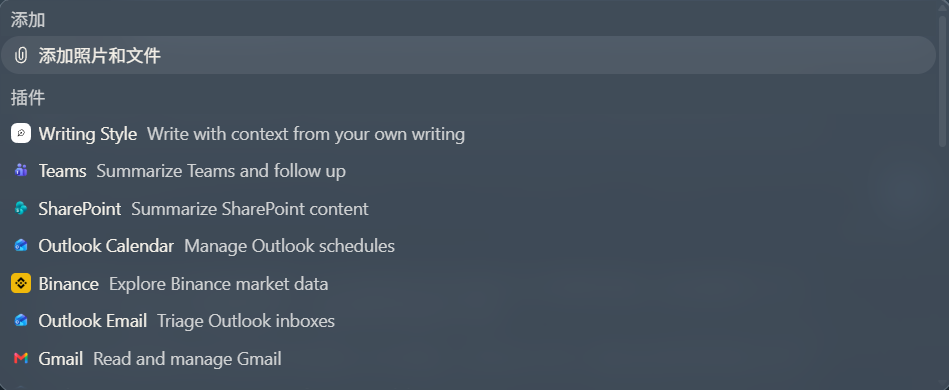
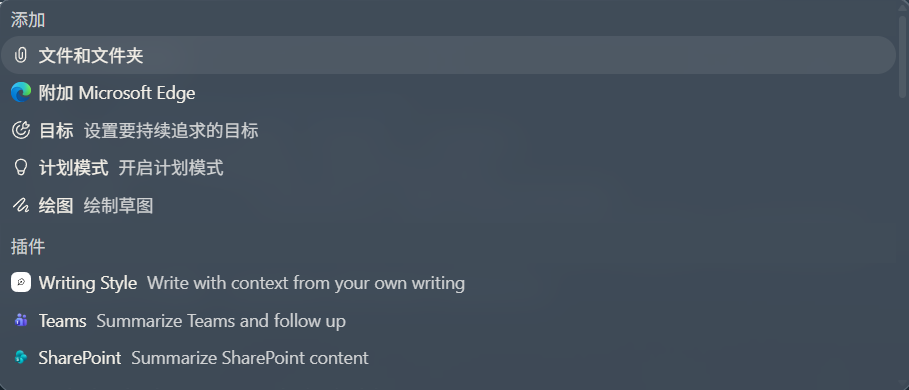
release: publish native surface adaptation as v0.18.0

diff --git a/runtime/wukong-codex-theme-background-v13.css b/runtime/wukong-codex-theme-background-v13.css
@@ -1,4 +1,4 @@
-/* Native paint boundary, audited against desktop 26.930.3748.0.
+/* Native paint boundary, audited against desktop 26.930.3930.0.
  * Native fonts, radii and layout are retained. Navigation uses a translucent
  * reading surface with foreground colours matched to the native theme.
  * Only the existing landing wordmark/quote and inert background own geometry.

diff --git a/docs/VALIDATION.md b/docs/VALIDATION.md
@@ -1,6 +1,6 @@
 # 当前适配验证
 
-日期：2026-10-03。原生客户端：Windows Codex 26.930.3748.0；运行时：v108-native-surface-adapter。本轮源码尚未发行，最新正式版为 v0.17.3；历史结论从 Git 历史与对应 Release 查阅。
+日期：2026-10-04。发行版本：v0.18.0。原生客户端：Windows Codex 26.930.3930.0；运行时：v108-native-surface-adapter。历史结论从 Git 历史与对应 Release 查阅。
 
 ## 原生来源与设计核对
 
@@ -9,6 +9,10 @@
 原生尺寸和圆角不再冻结为旧版数值；测试检查语义接口、实际归属、原生几何与功能。不存在原生 data 标记的装饰叶，仍保留限定范围的组件或样式回退，不承诺未来组件彻底重写后无需维护。
 
 ## 实机检查
+
+2026-10-04 重新核对当前安装包，活动共用 CSS 与此前审计版本完全一致，全部现役原生语义接口存在；22 项原生来源及适配定向检查通过。深浅色重新检查设置、普通对话、添加菜单、dots、Customize 和权限表。设置及同风景队列页面往返保持 renderCount=1，未新增背景解码；两种模式各检查设置 307 个、普通对话 1,266 个节点，Customize 分别检查 342／1,999 个节点，所测 rect、圆角、定位、内距、字号和行高无差异。节点数量受原生异步加载影响。权限表各检查 34 个节点、翻页到 480px、下拉打开及关闭，权限值未变化。
+
+权限表使用原生平滑滚动。旧私有检查等待 150ms 曾过早读取到 0；继续观察后正常达到 480px，已改为等待实际滚动完成，未将此写成产品缺陷。六张预览均在当前版本重新截取。以下既有适配结论已在本轮相关页面复核；普通对话 1,618 节点的详细检查属于 2026-10-03 记录。
 
 - 最终源码已通过注入器应用到当前客户端。首次窗口隐藏时按设计延期；随后激活窗口完成加载，深浅模式检查均 document.hidden=false、backgroundReady=true。
 - 使用原生外观设置切换 dark/light，检查设置、活动对话、添加菜单、dots 与 Customize；结束后恢复原深色模式和原对话。
@@ -19,18 +23,18 @@
 - 浏览器智能体权限表的原生组件 CSS 使用单元格绘制，已用权限列无障碍 ID 限定局部材质。实机深浅色各检查 34 个内部节点，原生 rect、圆角、定位、网格、内距、边框宽度和字体一致；翻页产生 480px 横向滚动，回退及下拉菜单正常，所有权限值保持原值。表格不新增模糊层，固定单元格采用实色，防止移动文字透出。
 - 双模式设置、活动页面与 Customize 的布局对照未发现 rect、圆角、定位、内距、字号、行高差异。最后使用统一语义适配器核对当前普通对话 1,618 个节点，有一处居中容器的计算 margin 表示不同，但 rect 完全一致；不声明所有计算样式完全相同。
 
-预览来自当前客户端空白新聊天页及局部截图，没有聊天正文；新聊天页侧栏名称已临时脱敏，截图后恢复。具体来源见 previews/README.md。实机导航和 DOM 检查不等同于用户视觉验收，本轮仍待用户验收。
+预览来自当前客户端空白新聊天页及局部截图，没有聊天正文；新聊天页侧栏名称已临时脱敏，截图后恢复。具体来源见 previews/README.md。实机导航和 DOM 检查不等同于用户视觉验收。本轮按用户“检查是否有其他问题后同步”的明确发布授权继续发行。
 
 ## 自动检查与打包
 
-从精确暂存内容导出独立源码，排除未跟踪宠物、任务栏材料及诊断。依赖通过本机 node_modules 复用，没有重新安装。最终 npm run check：原生定义验证通过，154 项回归全部通过，0 失败、0 跳过，约 54 秒。检查后只补写验证数量与仓库同步状态，运行代码和测试输入保持一致。
+从精确暂存内容导出独立源码，排除未跟踪宠物、任务栏材料及诊断。依赖通过本机 node_modules 复用，没有重新安装。最终 npm run check：原生定义验证通过，154 项回归全部通过，0 失败、0 跳过，约 55.7 秒。检查后只补写验证数量与仓库同步状态，运行代码和测试输入保持一致。
 
 定向覆盖包括隐藏／透明保留页、portal 可见性、工具类与尺寸变化、原生表面首帧、设置背景连续性、dots 渐变、菜单行状态与禁用状态、自定义材质、旧 schemaVersion 3 导出、生命周期与还原。映射单独更新的浏览器检查确认：无需改变声明 revision，新的依赖映射能移动壁纸宿主，并带入新 renderer 指纹。
 
-Studio 的完整窗口预览、图片输入、导出与截图检查通过；独立源码的 Vite 缓存写入独立目录，最终运行没有共享依赖缓存错误。候选下载包 37 个文件，ZIP 解压后逐文件 SHA-256 一致；退役纹理、开发目录及本机材料不进入运行包。候选包仅用于本轮验证，没有上传新 Release。
+Studio 的完整窗口预览、图片输入、导出与截图检查通过；独立源码的 Vite 缓存写入独立目录，最终运行没有共享依赖缓存错误。候选下载包 37 个文件，ZIP 解压后逐文件 SHA-256 一致；退役纹理、开发目录及本机材料不进入运行包。正式下载包随 v0.18.0 上传，上传后重新下载核对 SHA-256。
 
 ## 未执行与边界
 
-本轮没有主动重启官方客户端，未做完整冷启动或完整卸载流程；恢复边界由回归检查覆盖。本轮未重新采集流式文字重载样本，不能将其写成已修复，也不能断定是原生 UI bug。未逐页视觉检查全部设置子页、目录内容、弹窗及每种流式状态。
+本轮使用正式 ZIP 解压出的注入器实际执行恢复原生，verified=true；随后用同一解压包重新注入。隐藏窗口首次延期，激活后实读 document.hidden=false、backgroundReady=true、v108-native-surface-adapter。没有主动重启官方客户端，未做完整冷启动或完整卸载流程。本轮未重新采集流式文字重载样本，不能将其写成已修复，也不能断定是原生 UI bug。未逐页视觉检查全部设置子页、目录内容、弹窗及每种流式状态。
 
-受跟踪的旧方案、旧测试与旧文案已清理，仍有效保护已迁移。自动审批阻止永久删除后，按用户要求把 1,748 个宠物与旧诊断文件，以及 Archives 内 155 个存档文件集中到同一待手动删除目录；迁移前后哈希一致。候选运行包的构建与解压验证结果仍有效，文件现已退出 Archives。最终删除由用户执行，状态见 CLEANUP.md。当前私有诊断和最终独立验证输入保留本机，供验收复查。
+受跟踪的旧方案、旧测试与旧文案已清理，仍有效保护已迁移。自动审批阻止永久删除后，按用户要求把 1,748 个宠物与旧诊断文件，以及 Archives 内 155 个存档文件集中到同一待手动删除目录；迁移前后哈希一致。候选运行包的构建与解压验证结果仍有效，文件现已退出 Archives。最终删除由用户执行，状态见 CLEANUP.md。当前私有诊断保留本机用于复查；已无用途的独立导出与解压副本按长任务清理规则处理，正式 ZIP 与校验文件保留。

diff --git a/docs/CURRENT_GOAL.md b/docs/CURRENT_GOAL.md
@@ -1,13 +1,13 @@
 # 当前目标与发行状态
 
-更新：2026-10-03。最新正式发行版为 [v0.17.3](https://github.com/Udkam/wukong-codex-theme/releases/tag/v0.17.3)，对应发行说明见 [RELEASE_0.17.3.md](RELEASE_0.17.3.md)。
+更新：2026-10-04。当前版本为 [v0.18.0](https://github.com/Udkam/wukong-codex-theme/releases/tag/v0.18.0)，发行说明见 [RELEASE_0.18.0.md](RELEASE_0.18.0.md)。本轮用户已明确要求检查后同步发行。
 
-本轮为 **v108 适配重构与仓库清理，尚未发布新版本**。依据 Windows Codex 26.930.3748.0 的活动原生 CSS/JS，对比全部主题替换内容，在保留背景队列、切换快捷键、跨页复用、玻璃材质、深浅模式、首页装饰和自定义主题功能的前提下，减少对尺寸、工具类及组件层级的依赖。
+运行时 v108-native-surface-adapter 保留背景队列、切换快捷键、跨页复用、玻璃材质、深浅模式、首页装饰和自定义主题功能。对照 Windows Codex 26.930.3930.0 的活动 CSS/JS，按原生语义标记及实际绘制归属维护适配，减少尺寸、工具类和组件层级依赖。
 
-语义选择器与绘制归属集中到 `runtime/native-ui-contract.mjs`；颜色、模糊和阅读衬底从主题 `materials` 配置生成。旧 schemaVersion 3 主题继续兼容，七项退役纸张与侧栏纹理不再参与解码。完整范围和兼容边界见 [原生 UI 与主题替换接口](native-surface-adaptation.md)。
+语义映射集中于 runtime/native-ui-contract.mjs，材质和阅读颜色从主题 materials 配置生成。旧 schemaVersion 3 导出继续兼容；退役纸张和侧栏纹理不再加载。完整范围见 [原生表面与材质接口](native-surface-adaptation.md)。
 
-旧注入方案、历史截图专测、退役素材和重复文档已从当前源码移除，有效保护迁移到现役行为测试。Git 历史、既有标签和已发布版本保留。宠物、旧诊断及 Archives 存档已集中到仓库外的待手动删除目录，见 [清理记录](CLEANUP.md)。
+检查记录区分实机、自动回归、包校验与未执行范围，见 [验证记录](VALIDATION.md)。README、六张实机预览、版本和发行说明随运行包同步；源码与已发布包均使用本轮适配内容。
 
-本轮已注入本机，独立源码 154 项回归及 Studio 检查通过，候选包解压哈希一致。当前等待用户对重构后界面验收；实际页面检查与未执行项目见 [验证记录](VALIDATION.md)。按已授权范围同步源码仓库，正式发行仍遵循固定流程。
+旧方案、专用旧测试与重复文案已清理，有效保护迁移；Git 历史和既有版本保留。宠物、旧诊断及 Archives 存档的手动删除范围见 [清理记录](CLEANUP.md)。
 
-用户入口仍为 `start.cmd`。后续更新遵循 [固定更新与发布流程](DEVELOPMENT.md)。
+用户入口为 start.cmd。后续更新遵循 [固定更新与发布流程](DEVELOPMENT.md)。

diff --git a/README.md b/README.md
@@ -2,9 +2,9 @@
 
 为 Windows ChatGPT/Codex 桌面客户端提供悟空背景与玻璃材质，支持深浅色主题。保留原生交互，按区域替换材质；10 张战斗图、3 张风景图，对话默认雪山。
 
-## 当前源码：原生表面适配重构
+## v0.18.0：原生表面适配重构
 
-**v108（2026-10-03，尚未发布）** 对照 Windows Codex **26.930.3748.0** 的原生 UI，集中维护容器识别和材质配置。最新正式下载仍为 **v0.17.3**，不包含本轮未发布修改。
+**v0.18.0（2026-10-04，运行时 v108）** 对照 Windows Codex **26.930.3930.0** 的原生 UI，集中维护容器识别和材质配置。本版运行包包含本轮适配与修复。
 
 - **容器随原生变化：** 优先按 `data-*` 所属关系识别壁纸、侧栏、输入区、进度区和摘要面板，减少对固定尺寸、工具类组合及文案的依赖。
 - **主题功能继续保留：** 背景队列、自动场景切换、锁定、前后切换、题字开关、深浅玻璃和设置往返复用均保留。
@@ -38,7 +38,7 @@
 
 需要已安装的官方 Windows 桌面客户端，无需另外安装 Node.js、Python 或 npm。
 
-1. 下载 [v0.17.3 Windows 运行包](https://github.com/Udkam/wukong-codex-theme/releases/download/v0.17.3/Wukong-Codex-Theme-0.17.3-Windows.zip)。请选择此运行包，GitHub 自动生成的 **Source code** 是开发源码。
+1. 下载 [v0.18.0 Windows 运行包](https://github.com/Udkam/wukong-codex-theme/releases/download/v0.18.0/Wukong-Codex-Theme-0.18.0-Windows.zip)。请选择此运行包，GitHub 自动生成的 **Source code** 是开发源码。
 2. 完整解压到固定文件夹。首次启动前，完全退出 ChatGPT/Codex，包括系统托盘实例。
 3. 双击 **start.cmd**。
 
@@ -53,7 +53,7 @@ Wukong-Codex-Theme/
 
 请保留整个文件夹，不要只复制 start.cmd，也不要直接在压缩包内运行。可为 start.cmd 创建桌面快捷方式。
 
-当前正式版本为 **v0.17.3**。完整操作说明见 [快速开始](docs/QUICK_START.txt)。
+当前正式版本为 **v0.18.0**。完整操作说明见 [快速开始](docs/QUICK_START.txt)。
 
 ## 常用操作
 
@@ -85,4 +85,4 @@ Wukong-Codex-Theme/
 - [验证记录](docs/VALIDATION.md)
 - [资源来源](docs/ASSET_SOURCES.md)
 
-仓库当前分支仅保留主题。宠物制作资料、旧诊断和 Archives 存档已按用户要求移出原位置，集中到一个待手动删除目录；自动审批阻止永久删除，最终由用户整目录删除。详情见 [清理记录](docs/CLEANUP.md)。
+仓库当前分支仅保留主题。宠物制作资料、旧诊断和 Archives 存档已退出当前源码和运行包；本轮复查原归档目录与此前待手动删除目录均已不存在。历史迁移与本机清理记录见 [清理记录](docs/CLEANUP.md)。

diff --git a/docs/RELEASE_0.18.0.md b/docs/RELEASE_0.18.0.md
@@ -1,0 +1,26 @@
+# Wukong Codex Theme v0.18.0
+
+2026-10-04。原生 UI 适配重构，运行时 v108-native-surface-adapter；对照 Windows Codex 26.930.3930.0。
+
+## 本版内容
+
+- 将原生容器识别、可见性和绘制归属集中到 native-ui-contract.mjs，优先使用语义标记；保留原生布局、圆角、文字排版和交互，减少固定尺寸及工具类组合依赖。
+- 保留背景队列、场景自动切换、锁定、快捷键、首页题字、深浅玻璃、设置往返复用与还原功能。普通对话与 dots 使用风景队列，新聊天使用战斗队列。
+- 深色阅读区提供更稳定的文字、次要说明和链接颜色；主题 JSON 新增可选 materials.dark/light 材质配置，旧 schemaVersion 3 主题继续兼容。
+- 添加面板的分组标题与滚动内容统一材质，改善说明文字对比度，保留选中、禁用、键盘和滚动操作。
+- 清除 dots 输入控件后方的独立装饰渐变，避免底部黑带；保留原生输入控件。
+- 补齐浏览器智能体权限表的深浅色材质，固定列采用不透明底色；保留圆角、横向平滑翻页和权限下拉。
+- host 同时计算主模块和原生适配模块的指纹，单独更新映射也能重新应用到客户端。
+- 清理失效注入方案、旧纹理、历史截图专测和重复文档，迁移有效回归保护；Git 历史、标签与既有发行版保留。
+
+## 检查与边界
+
+新客户端的共用原生样式与前一审计版本一致，全部现役语义接口存在。深浅色实机检查、独立源码回归、Studio 检查及下载包解压哈希验证的实际范围见 [验证记录](https://github.com/Udkam/wukong-codex-theme/blob/v0.18.0/docs/VALIDATION.md)。README 与六张实机预览已同步。
+
+本轮未主动重启官方客户端，未额外执行完整冷启动；没有重新采集流式文字重载样本，不能将其写成已修复或原生 UI bug。当前映射可以减少布局变化带来的维护，但原生语义接口彻底改变时仍需更新。
+
+## 下载与启动
+
+下载 Wukong-Codex-Theme-0.18.0-Windows.zip，完整解压，完全退出官方客户端（含托盘），双击 start.cmd。目录包含 start.cmd、使用说明.txt 与 app，保持完整结构。SHA256SUMS.txt 提供校验。
+
+本版正式运行包已包含原生表面适配模块及当前主题资源；GitHub 自动生成的 Source code 为开发源码。

diff --git a/docs/logs/CHANGELOG.md b/docs/logs/CHANGELOG.md
@@ -1,15 +1,15 @@
 # 当前变更
 
-## 2026-10-03：原生表面适配重构
+## 2026-10-04：v0.18.0 原生表面适配重构
 
-- 对照客户端 26.930.3748.0，集中语义选择器、可见性与绘制归属；减少尺寸、工具类和进度文案依赖。
+- 对照客户端 26.930.3930.0，集中语义选择器、可见性与绘制归属；减少尺寸、工具类和进度文案依赖。
 - 保留主题替换功能；新增 JSON 深浅材质配置，旧 schemaVersion 3 主题兼容。
 - 修复添加面板标题与说明文字，清除 dots 输入栏后的独立渐变。
 - 补齐浏览器智能体权限表的深浅色材质，保留固定列、圆角、横向翻页和下拉操作；双模式实机检查通过。
 - host 同时核验主模块与适配依赖的指纹，映射更新能使 renderer 重新应用。
 - 清理旧注入方案、纹理、历史截图断言和重复设计文档；有效保护迁移，历史版本保留。
-- 更新 README、实机预览、验证记录与待发行说明；独立源码 154 项回归、Studio 和候选包哈希验证通过。
+- 更新 README、实机预览、验证记录与发行说明；独立源码 154 项回归、Studio 和候选包哈希验证通过。
 
 - 按用户要求将宠物、旧诊断和 Archives 存档集中到仓库外的手动删除目录，迁移哈希核对一致；新增长任务结束检查过程存档的协作规则。
 
-本轮源码尚未发行，最新正式版仍为 v0.17.3。用户验收与未执行项目见 ../VALIDATION.md；手动删除状态见 ../CLEANUP.md。历史变更从 Git 查询。
+按用户检查后同步的授权发布 v0.18.0，运行包纳入当前适配模块和材质配置。README、六张当前客户端实机预览与包版本同步；验证范围和未执行项目见 ../VALIDATION.md，清理状态见 ../CLEANUP.md。历史变更从 Git 查询。

diff --git a/docs/CLEANUP.md b/docs/CLEANUP.md
@@ -1,6 +1,6 @@
 # 仓库整理与恢复
 
-更新：2026-10-03。用户要求清理仓库遗留内容及宠物存档，同时保留 Git 历史和已发布版本。
+更新：2026-10-04。用户要求清理仓库遗留内容及宠物存档，同时保留 Git 历史和已发布版本。
 
 ## 当前源码清理
 
@@ -32,6 +32,10 @@
 
 长任务收尾检查另发现 4 份被替代的临时源码导出，已将其 486 个文件、38,130,706 字节也移入同一手动删除目录，哈希核对一致。最终测试与最终打包两份输入保留用于验收复查；共享依赖链接未移动、未删除。
 
+## 本轮发行收尾核查
+
+2026-10-04 再次检查时，前述待手动删除集中目录与 Archives 本项目原目录均已不存在。本轮没有执行这些旧存档的永久删除，历史迁移数量仅作为记录。正式运行包和最小检查记录保留本机；重复构建目录、解压校验副本和独立源码导出在发行校验完成后清理，不重新建立 Archives 恢复档。
+
 ## 历史恢复
 
-使用 `git log --all -- <路径>` 查找历史，再用 `git show <提交>:<路径>` 查看；需要恢复时导出到独立目录。此次操作不重写历史、不删除既有标签和 GitHub Releases。源码删除随普通提交同步远程，最新正式版仍为 v0.17.3，本轮 v108 适配重构尚未发布。
+使用 `git log --all -- <路径>` 查找历史，再用 `git show <提交>:<路径>` 查看；需要恢复时导出到独立目录。此次操作不重写历史、不删除既有标签和 GitHub Releases。源码清理已同步远程；v108 原生表面适配重构随 v0.18.0 正式运行包发布。

diff --git a/docs/previews/README.md b/docs/previews/README.md
@@ -1,6 +1,6 @@
 # 当前预览
 
-2026-10-03，Windows Codex 26.930.3748.0，运行时 v108-native-surface-adapter。
+2026-10-04，Windows Codex 26.930.3930.0，运行时 v108-native-surface-adapter。
 
 - dark-reading-footer.png / light-reading-footer.png：当前客户端的 dots composer-wrap，按原生边界截取底部 65px 内的输入控件与壁纸，不含聊天正文和附件内容。
 - dark-add-menu.png / light-add-menu.png：当前客户端实际打开“添加文件等内容”后，按 data-mention-list-scroll-area 截取滚动区。展示添加与插件标题、选中项和说明文字。

diff --git a/docs/native-surface-adaptation.md b/docs/native-surface-adaptation.md
@@ -1,6 +1,6 @@
 # 原生 UI 与主题替换接口
 
-核对客户端：Windows Codex 26.930.3748.0，2026-10-03。依据安装包的活动 CSS/JS，来源哈希见 native-asar-provenance.json。本文件统一现役设计、材质配置和覆盖边界；历史方案从 Git 查询。
+核对客户端：Windows Codex 26.930.3930.0，2026-10-04。依据安装包的活动 CSS/JS，来源哈希见 native-asar-provenance.json。本文件统一现役设计、材质配置和覆盖边界；历史方案从 Git 查询。
 
 ## 分层
 
